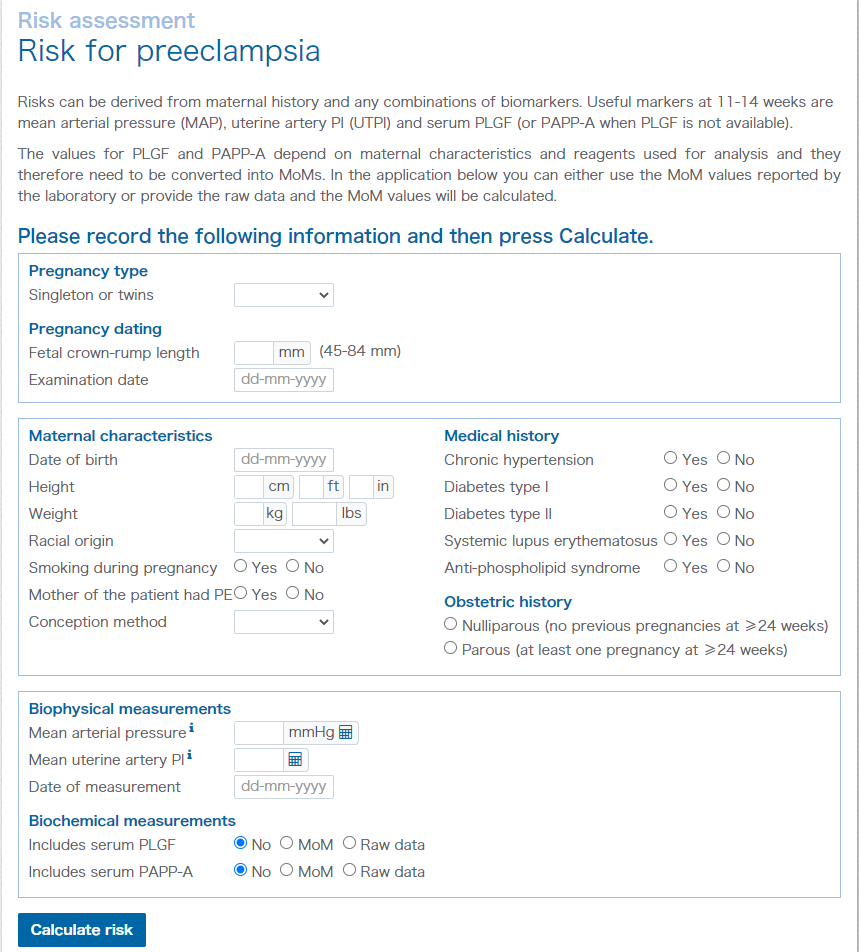
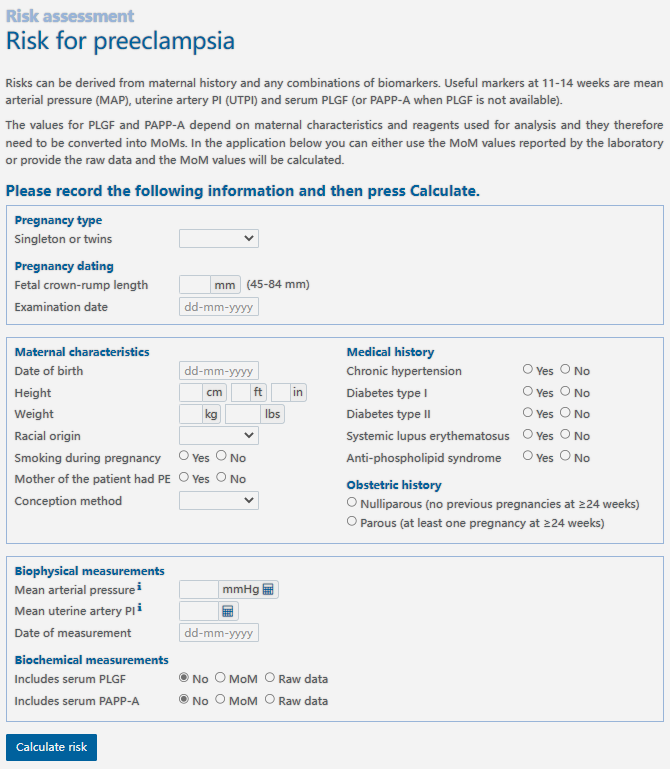
0815

Changed region(s): [[0.0, 0.0, 1.0, 1.0], [0.2687, 0.3433, 0.4776, 0.4369], [0.2687, 0.749, 0.4179, 0.8427]]

diff --git a/body/graduate/intro.tex b/body/graduate/intro.tex
@@ -37,10 +37,24 @@
 \end{figure}
 
 就现阶段我国国情而言，由于人口基数大、人口出生率较高，导致每年妊娠孕妇数及新生儿数总量巨大\cite{nbs2022}。
-最新地区人口普查信息显示，妇女峰值生育率微幅下降、高峰年龄区间后移并缩短，同时，妇女晚育现象比较普遍，自全面开放二孩政策后，二孩、多孩生育率持续回升\cite{zjtjj2022}。而临床研究已经证实，
+最新地区人口普查信息显示\cite{zjtjj2022}，妇女峰值生育率微幅下降、高峰年龄区间后移并缩短，同时，妇女晚育现象比较普遍，自全面开放二孩政策后，二孩、多孩生育率持续回升，
+如\autoref{tab:zjpn}所示。而临床研究已经证实，
 高龄与多次妊娠均属于可能导致子痫前期的风险因素，会增加孕妇子痫前期的患病可能\cite{Duckitt2005,FIGO,Yogev2010,Poon2010,Lee2000,Coonrod1995,Robillard1993}。
 因此，在新的时代背景下，如何对子痫前期快速有效的医学诊断与干预成为新的难题，实现子痫前期的预测和及早诊断，
 是对孕妇子痫前期的治疗及孕妇、围生儿的健康安全的保障，具有重大的临床应用价值。
+\begin{table}[htbp]
+    \centering
+    \caption[2010年、2020年浙江省育龄妇女平均生育年龄对比]{\label{tab:zjpn}2010年、2020年浙江省育龄妇女平均生育年龄对比\cite{zjtjj2022}。图中单位均为岁。}
+    \begin{tabularx}{\linewidth}{X<{\centering}X<{\centering}X<{\centering}X<{\centering}X<{\centering}}
+        \toprule
+            &   \textbf{合计} & \textbf{一孩} & \textbf{二孩}& \textbf{三孩及以上}\\
+        \midrule
+        2010年&  27.98 & 26.37 & 30.89 & 32.77     \\
+        2020年&  29.09 & 27.33 & 30.96 & 32.02     \\
+        增长值&  1.11 & 0.96 & 0.07 & -0.74     \\
+        \bottomrule
+    \end{tabularx}
+\end{table}
 \section{子痫前期概述}
 \subsection{病因及发病机制}
 截止目前，医学界对子痫前期的病因与发病机制尚未完全明确，相关研究还在继续进行之中。但得到公认的一点是，子痫前期病发具有异质性，多因素、多机制及多通路均对子痫前期的发病有所影响，不能仅以“一元论”的观点对待。
@@ -138,8 +152,8 @@
 对孕妇罹患子痫前期的可能进行初筛\cite{risks}，如\autoref{fig:risk}所示。常见的子痫前期风险因子包含以下项目：
 \begin{figure}[htbp]
     \centering
-    \includegraphics[width=.45\linewidth]{intro/riskaccess}
-    \caption[子痫前期风险因子评估量表]{\label{fig:risk}子痫前期风险因子评估量表\cite{risks}}
+    \includegraphics[width=.5\linewidth]{intro/risk}
+    \caption[英国胎儿医学基金会网站给出的子痫前期风险因子评估量表]{\label{fig:risk}英国胎儿医学基金会网站给出的子痫前期风险因子评估量表\cite{risks}}
 \end{figure}
 
 1. 产妇年龄

diff --git a/body/graduate/unsupervised.tex b/body/graduate/unsupervised.tex
@@ -1,7 +1,7 @@
 \chapter{无监督机器学习方法的尝试}
 \section{引言}
 
-聚类分析是无监督学习的一种，旨在发现数据间是否有潜在的相似性\cite{Liu2018}。
+聚类分析是无监督学习的一种，旨在发现数据间是否有潜在的相似性\cite{Liu2018,Li2017}。
 因此，我们做了额外的探究——在不给定脉搏波对应的子痫前期的数据标签的基础上，探究能否有效的将数据分成两类，并考察验证分类的效果。
 
 本文进行了以下探究：
